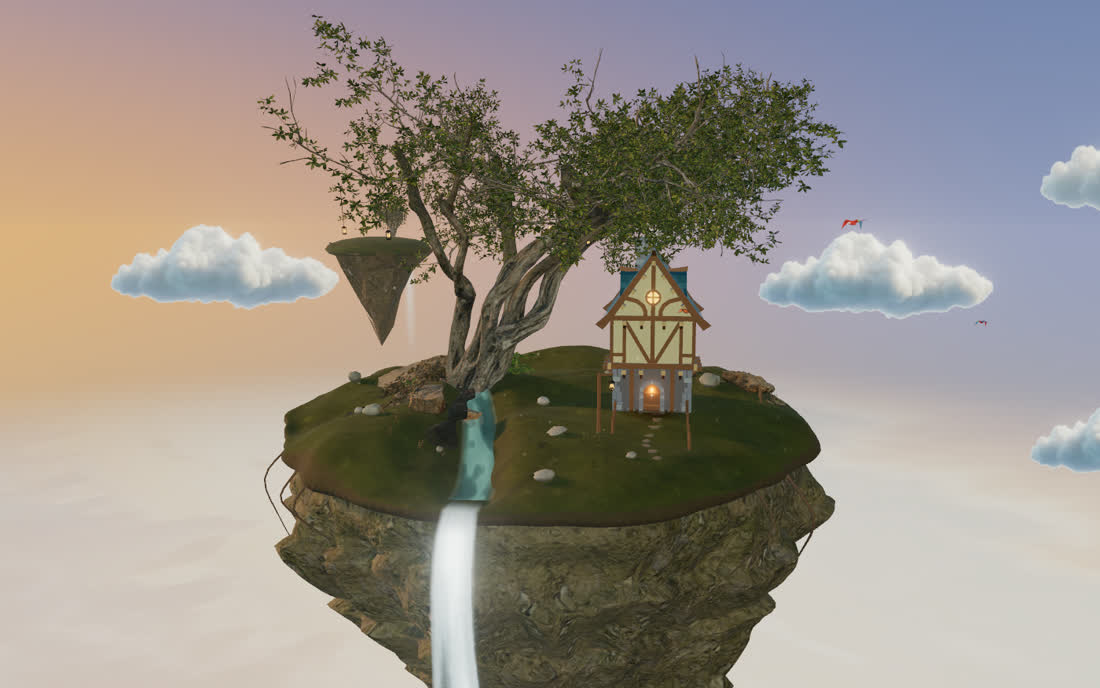
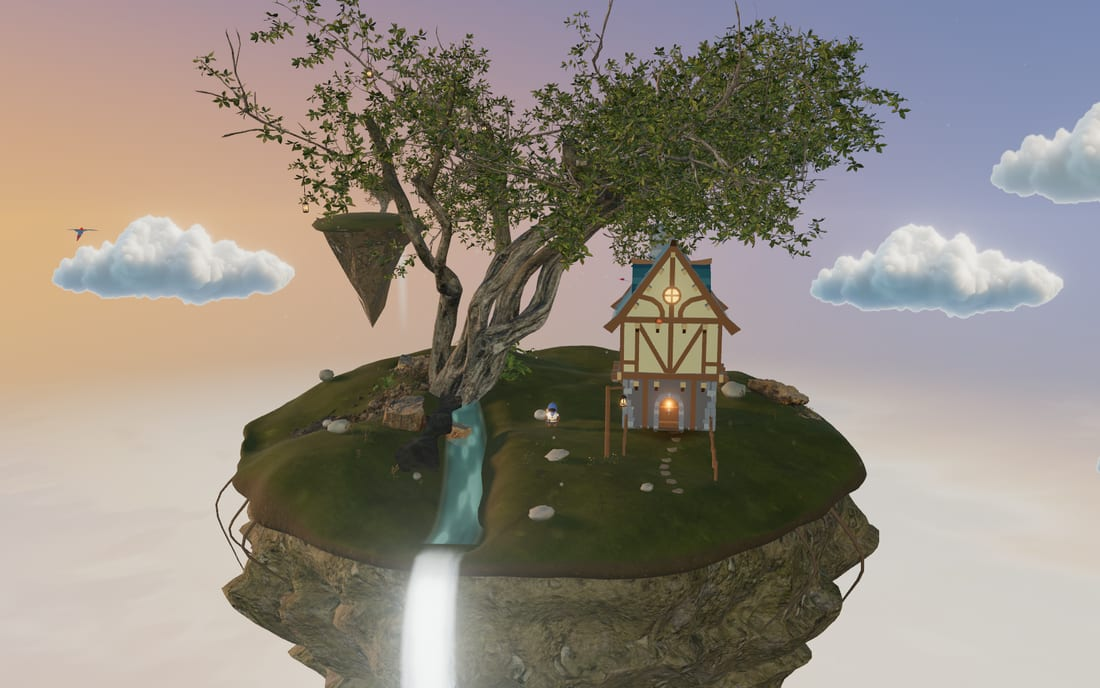
Re-photograph the island, now that it has a sun and someone on it
Every plate in the cottage's gallery predated the traveler, the sun, the stars
and the lower light — the wall was showing a world you could no longer walk
into. All six are re-shot, along with the README's images and the still that
handheld visitors are met with.

The tree is now seen up through its boles on the dusk side, with the first
stars out. The round window has the sun sitting in it. The falls show the rim,
the rock underside and the cloud sea. The island and the doorstep both have
the traveler in them, because now there is one.

Two captions were describing pictures that no longer exist — lanterns and a
sister island that are not in the new tree shot — so they say what is there
instead.

Changed region(s): [[0.0309, 0.0, 0.9891, 1.0], [0.8964, 0.1526, 1.0, 0.3052], [0.9273, 0.5799, 1.0, 0.702]]

diff --git a/src/ui/panelContent.ts b/src/ui/panelContent.ts
@@ -244,7 +244,7 @@ export function getPanelContent(): Record<string, PanelContent> {
           ${plate(
             'the_island',
             'the island, adrift',
-            'Grown from a single number: the same seed always raises the same hill, carves the same river, and hangs the same roots beneath the rock.',
+            'Grown from a single number: the same seed always raises the same hill, carves the same river, and hangs the same roots beneath the rock. Somewhere in the meadow, someone is walking it.',
           )}
           ${plate(
             'the_doorway',
@@ -254,7 +254,7 @@ export function getPanelContent(): Record<string, PanelContent> {
           ${plate(
             'the_tree',
             'the great tree',
-            'Older than the floating itself. Lanterns hang where its branches will hold them, and a sister island drifts past beyond.',
+            'Older than the floating itself — not one trunk but several, splayed from the middle. Look up through it on the dusk side and the first stars are already out.',
           )}
           ${plate(
             'the_falls',
